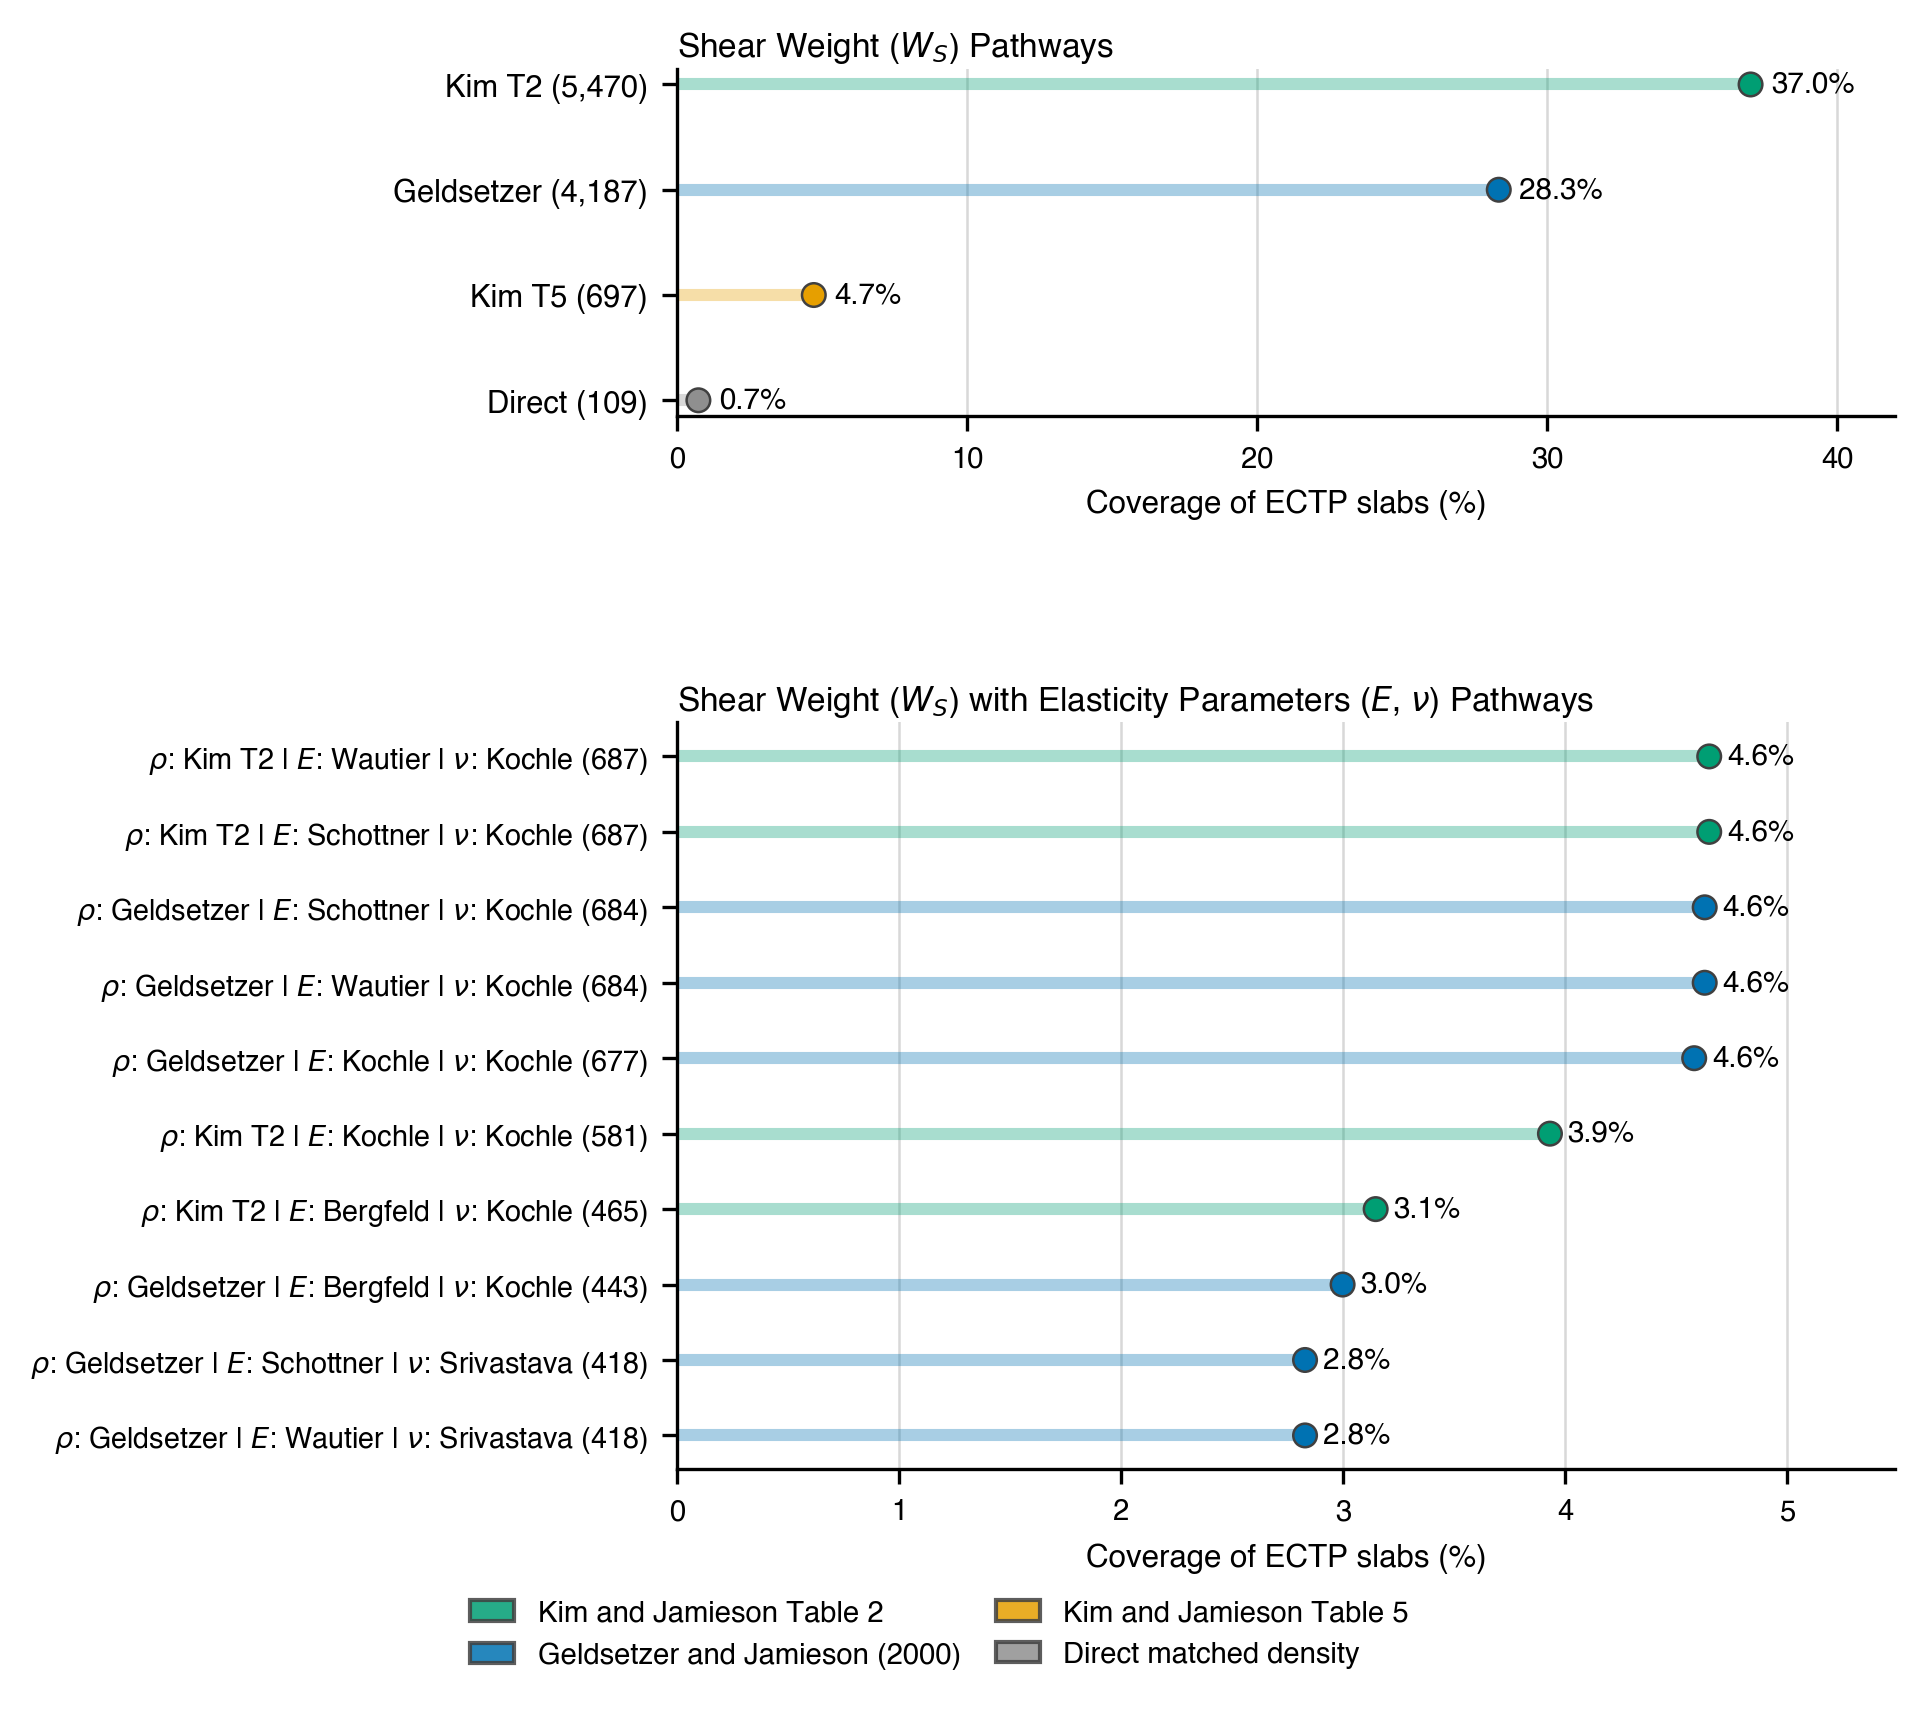
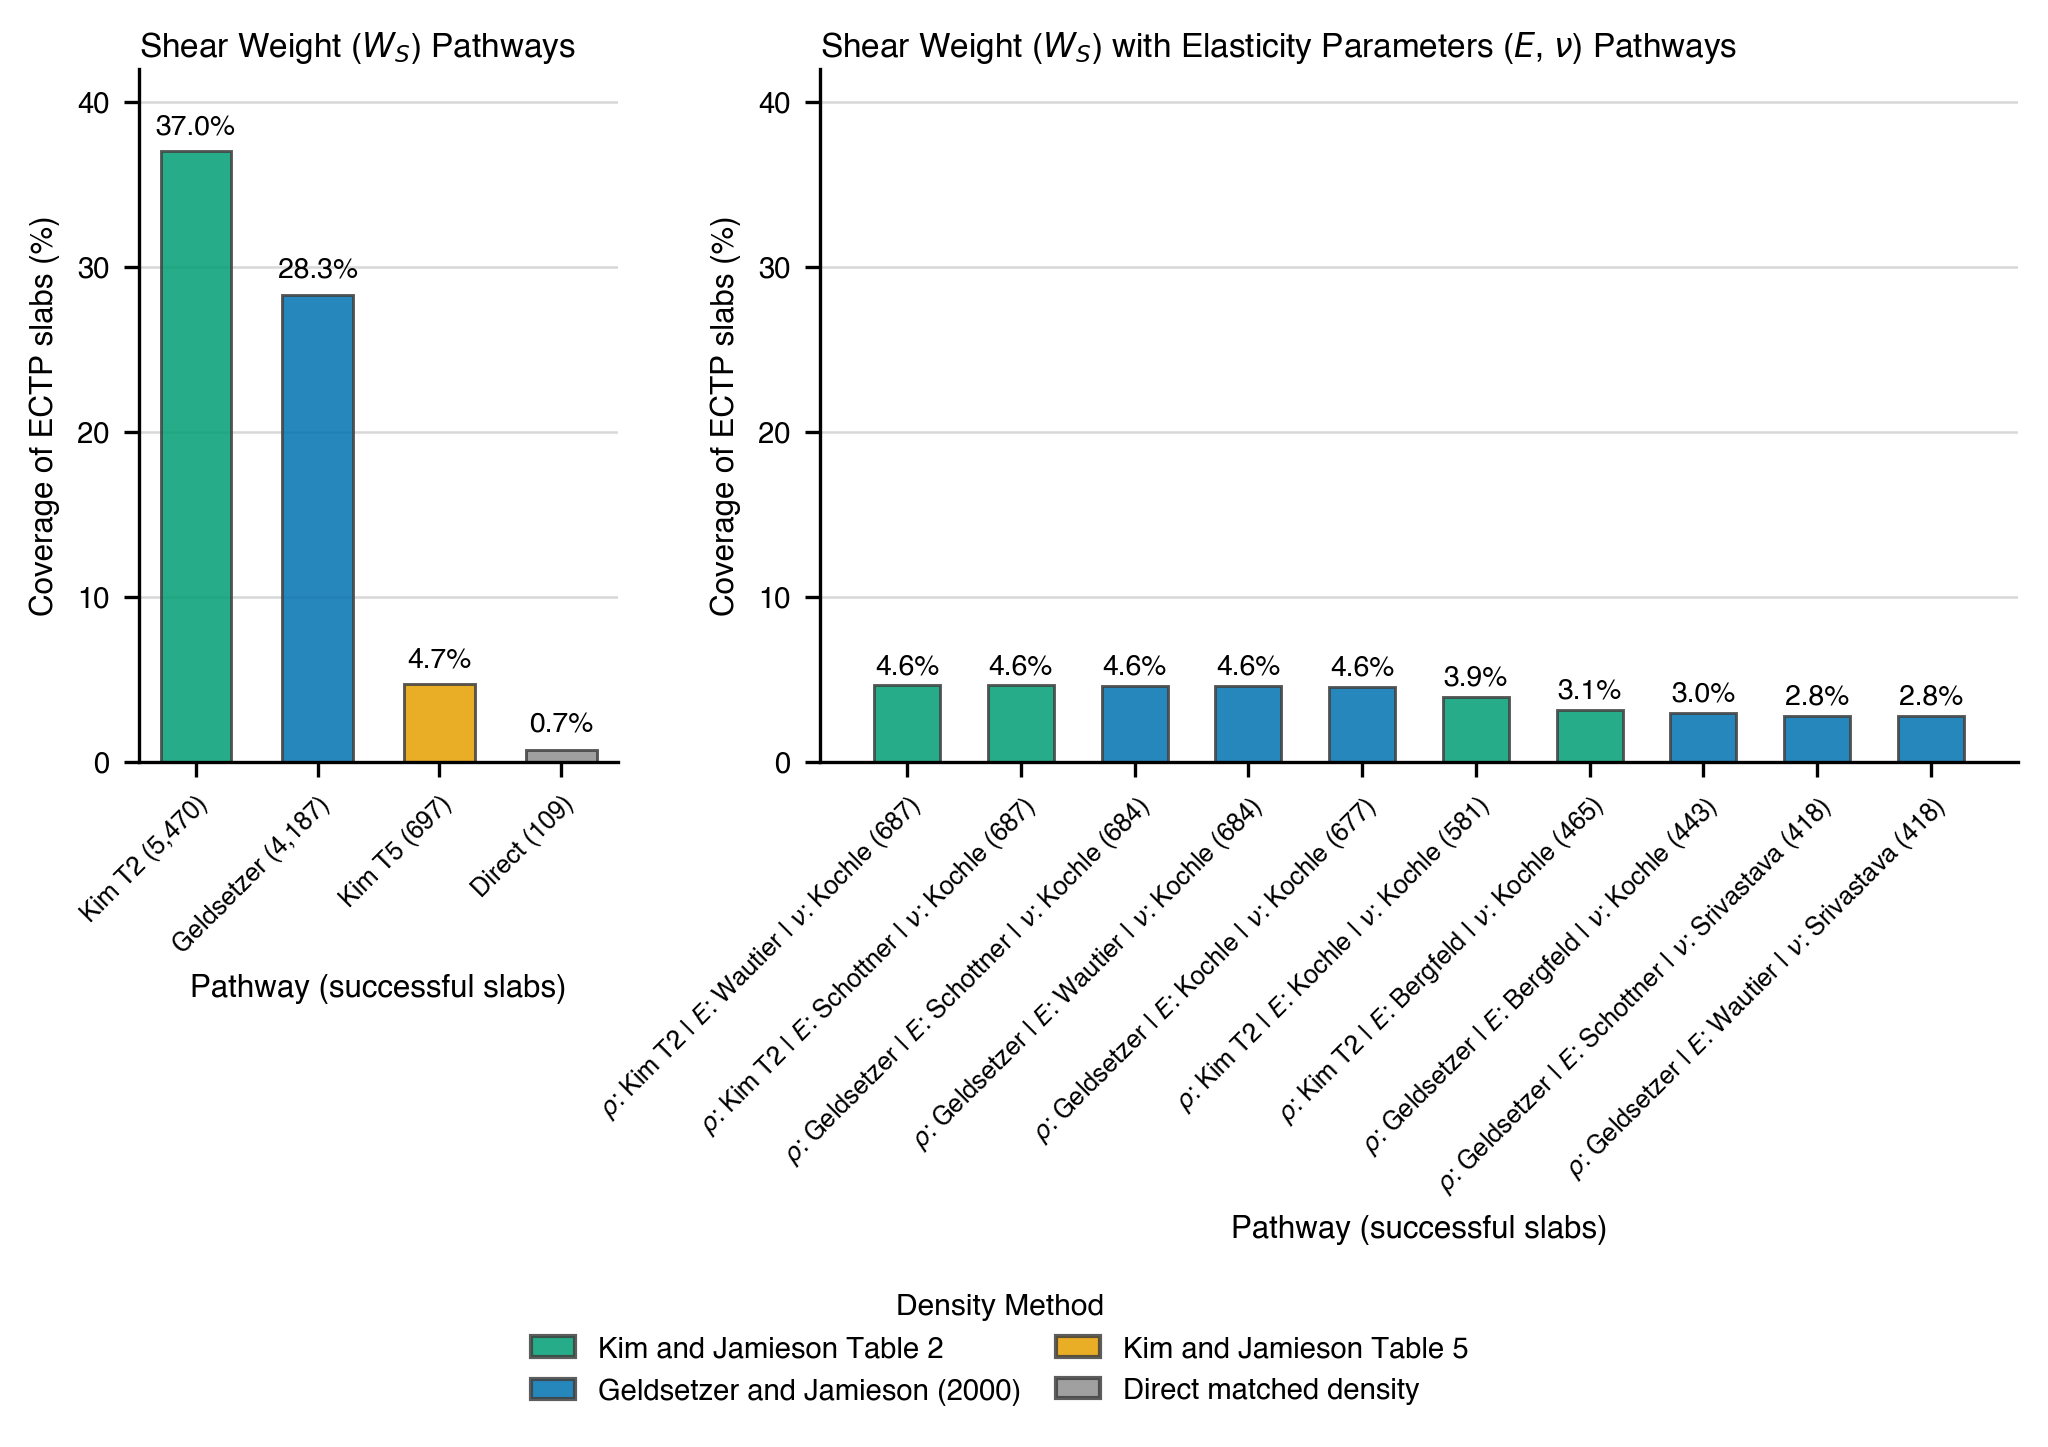
update coverage comparison fig

diff --git a/examples/paper_figure_utils.py b/examples/paper_figure_utils.py
@@ -606,10 +606,11 @@ def build_slab_weight_coverage_comparison_figure(
     ]
 
     fig, axes = plt.subplots(
-        2,
         1,
-        figsize=(DOUBLE_COL, 5.8),
-        gridspec_kw={"height_ratios": [1.0, 2.15]},
+        2,
+        figsize=(DOUBLE_COL, 5.25),
+        sharey=True,
+        gridspec_kw={"width_ratios": [4, 10]},
     )
 
     def _method_color(method: str) -> str:
@@ -619,34 +620,36 @@ def build_slab_weight_coverage_comparison_figure(
             return "#8F8F8F"
         return DENSITY_COLORS.get(method, "#8F8F8F")
 
-    def _draw_lollipop(
+    def _draw_bar_chart(
         ax: plt.Axes,
         labels: Sequence[str],
         values: Sequence[float],
         colors: Sequence[str],
         *,
         value_offset: float,
-        label_cutoff: float | None = None,
     ) -> None:
-        y_pos = np.arange(len(labels))
-        ax.hlines(y_pos, 0, values, color=colors, linewidth=2.9, alpha=0.34)
-        ax.scatter(values, y_pos, s=32, color=colors, edgecolor=COLOR_BORDER, linewidth=0.6, zorder=3)
-        for y_idx, value in zip(y_pos, values, strict=True):
-            if label_cutoff is not None and value >= label_cutoff:
-                ax.text(value - value_offset, y_idx, f"{value:.1f}%", va="center", ha="right", fontsize=7.1)
-            else:
-                ax.text(
-                    value + value_offset,
-                    y_idx,
-                    f"{value:.1f}%",
-                    va="center",
-                    ha="left",
-                    fontsize=7.1,
-                    clip_on=False,
-                )
-        ax.set_yticks(y_pos)
-        ax.set_yticklabels(labels)
-        ax.invert_yaxis()
+        x_pos = np.arange(len(labels))
+        ax.bar(
+            x_pos,
+            values,
+            width=0.58,
+            color=colors,
+            edgecolor=COLOR_BORDER,
+            linewidth=0.7,
+            alpha=0.85,
+        )
+        for x_idx, value in zip(x_pos, values, strict=True):
+            ax.text(
+                x_idx,
+                value + value_offset,
+                f"{value:.1f}%",
+                va="bottom",
+                ha="center",
+                fontsize=6.8,
+                clip_on=False,
+            )
+        ax.set_xticks(x_pos)
+        ax.set_xticklabels(labels, rotation=45, ha="right", rotation_mode="anchor")
 
     for ax, title in zip(
         axes,
@@ -656,11 +659,14 @@ def build_slab_weight_coverage_comparison_figure(
         ],
         strict=True,
     ):
-        _setup_publication_axes(ax, x_grid=True, y_grid=False)
+        _setup_publication_axes(ax, x_grid=False, y_grid=True)
         ax.set_title(title, loc="left", fontsize=8, fontweight="bold", pad=3)
+        ax.set_ylim(0, 42)
+        ax.set_yticks([0, 10, 20, 30, 40])
+        ax.set_ylabel("Coverage of ECTP slabs (%)", fontsize=7.5)
 
     shear_widths = shear_plot["n_all_inputs"] / total_slabs * 100.0
-    _draw_lollipop(
+    _draw_bar_chart(
         axes[0],
         shear_plot["label"],
         shear_widths,
@@ -669,24 +675,19 @@ def build_slab_weight_coverage_comparison_figure(
     )
 
     elasticity_widths = elasticity_plot["n_all_inputs"] / total_slabs * 100.0
-    _draw_lollipop(
+    _draw_bar_chart(
         axes[1],
         elasticity_plot["label"],
         elasticity_widths,
         [_method_color(m) for m in elasticity_plot["density_method"]],
-        value_offset=0.08,
+        value_offset=0.35,
     )
 
-    axes[0].set_xlabel("Coverage of ECTP slabs (%)", fontsize=7.5)
-    axes[1].set_xlabel("Coverage of ECTP slabs (%)", fontsize=7.5)
-    axes[0].set_xlim(0, 42)
-    axes[0].set_xticks([0, 10, 20, 30, 40])
-    axes[1].set_xlim(0, max(5.35, float(elasticity_widths.max()) * 1.18))
-    axes[1].set_xticks([0, 1, 2, 3, 4, 5])
-    axes[0].tick_params(axis="y", labelsize=7.4)
-    axes[1].tick_params(axis="y", labelsize=6.9)
+    axes[0].set_xlabel("Pathway (successful slabs)", fontsize=7.5)
+    axes[1].set_xlabel("Pathway (successful slabs)", fontsize=7.5)
     for ax in axes:
-        ax.tick_params(axis="x", labelsize=7.0)
+        ax.tick_params(axis="x", labelsize=6.1)
+        ax.tick_params(axis="y", labelsize=7.0, labelleft=True)
 
     legend_handles = [
         mpatches.Patch(
@@ -700,14 +701,16 @@ def build_slab_weight_coverage_comparison_figure(
     fig.legend(
         handles=legend_handles,
         loc="lower center",
-        bbox_to_anchor=(0.50, 0.01),
+        bbox_to_anchor=(0.50, 0.055),
         ncol=2,
         frameon=False,
         fontsize=7.0,
+        title="Density Method",
+        title_fontsize=7.2,
         columnspacing=1.2,
         handlelength=1.5,
     )
-    fig.subplots_adjust(left=0.375, right=0.955, top=0.945, bottom=0.14, hspace=0.56)
+    fig.subplots_adjust(left=0.09, right=0.985, top=0.92, bottom=0.48, wspace=0.24)
     return fig
 
 